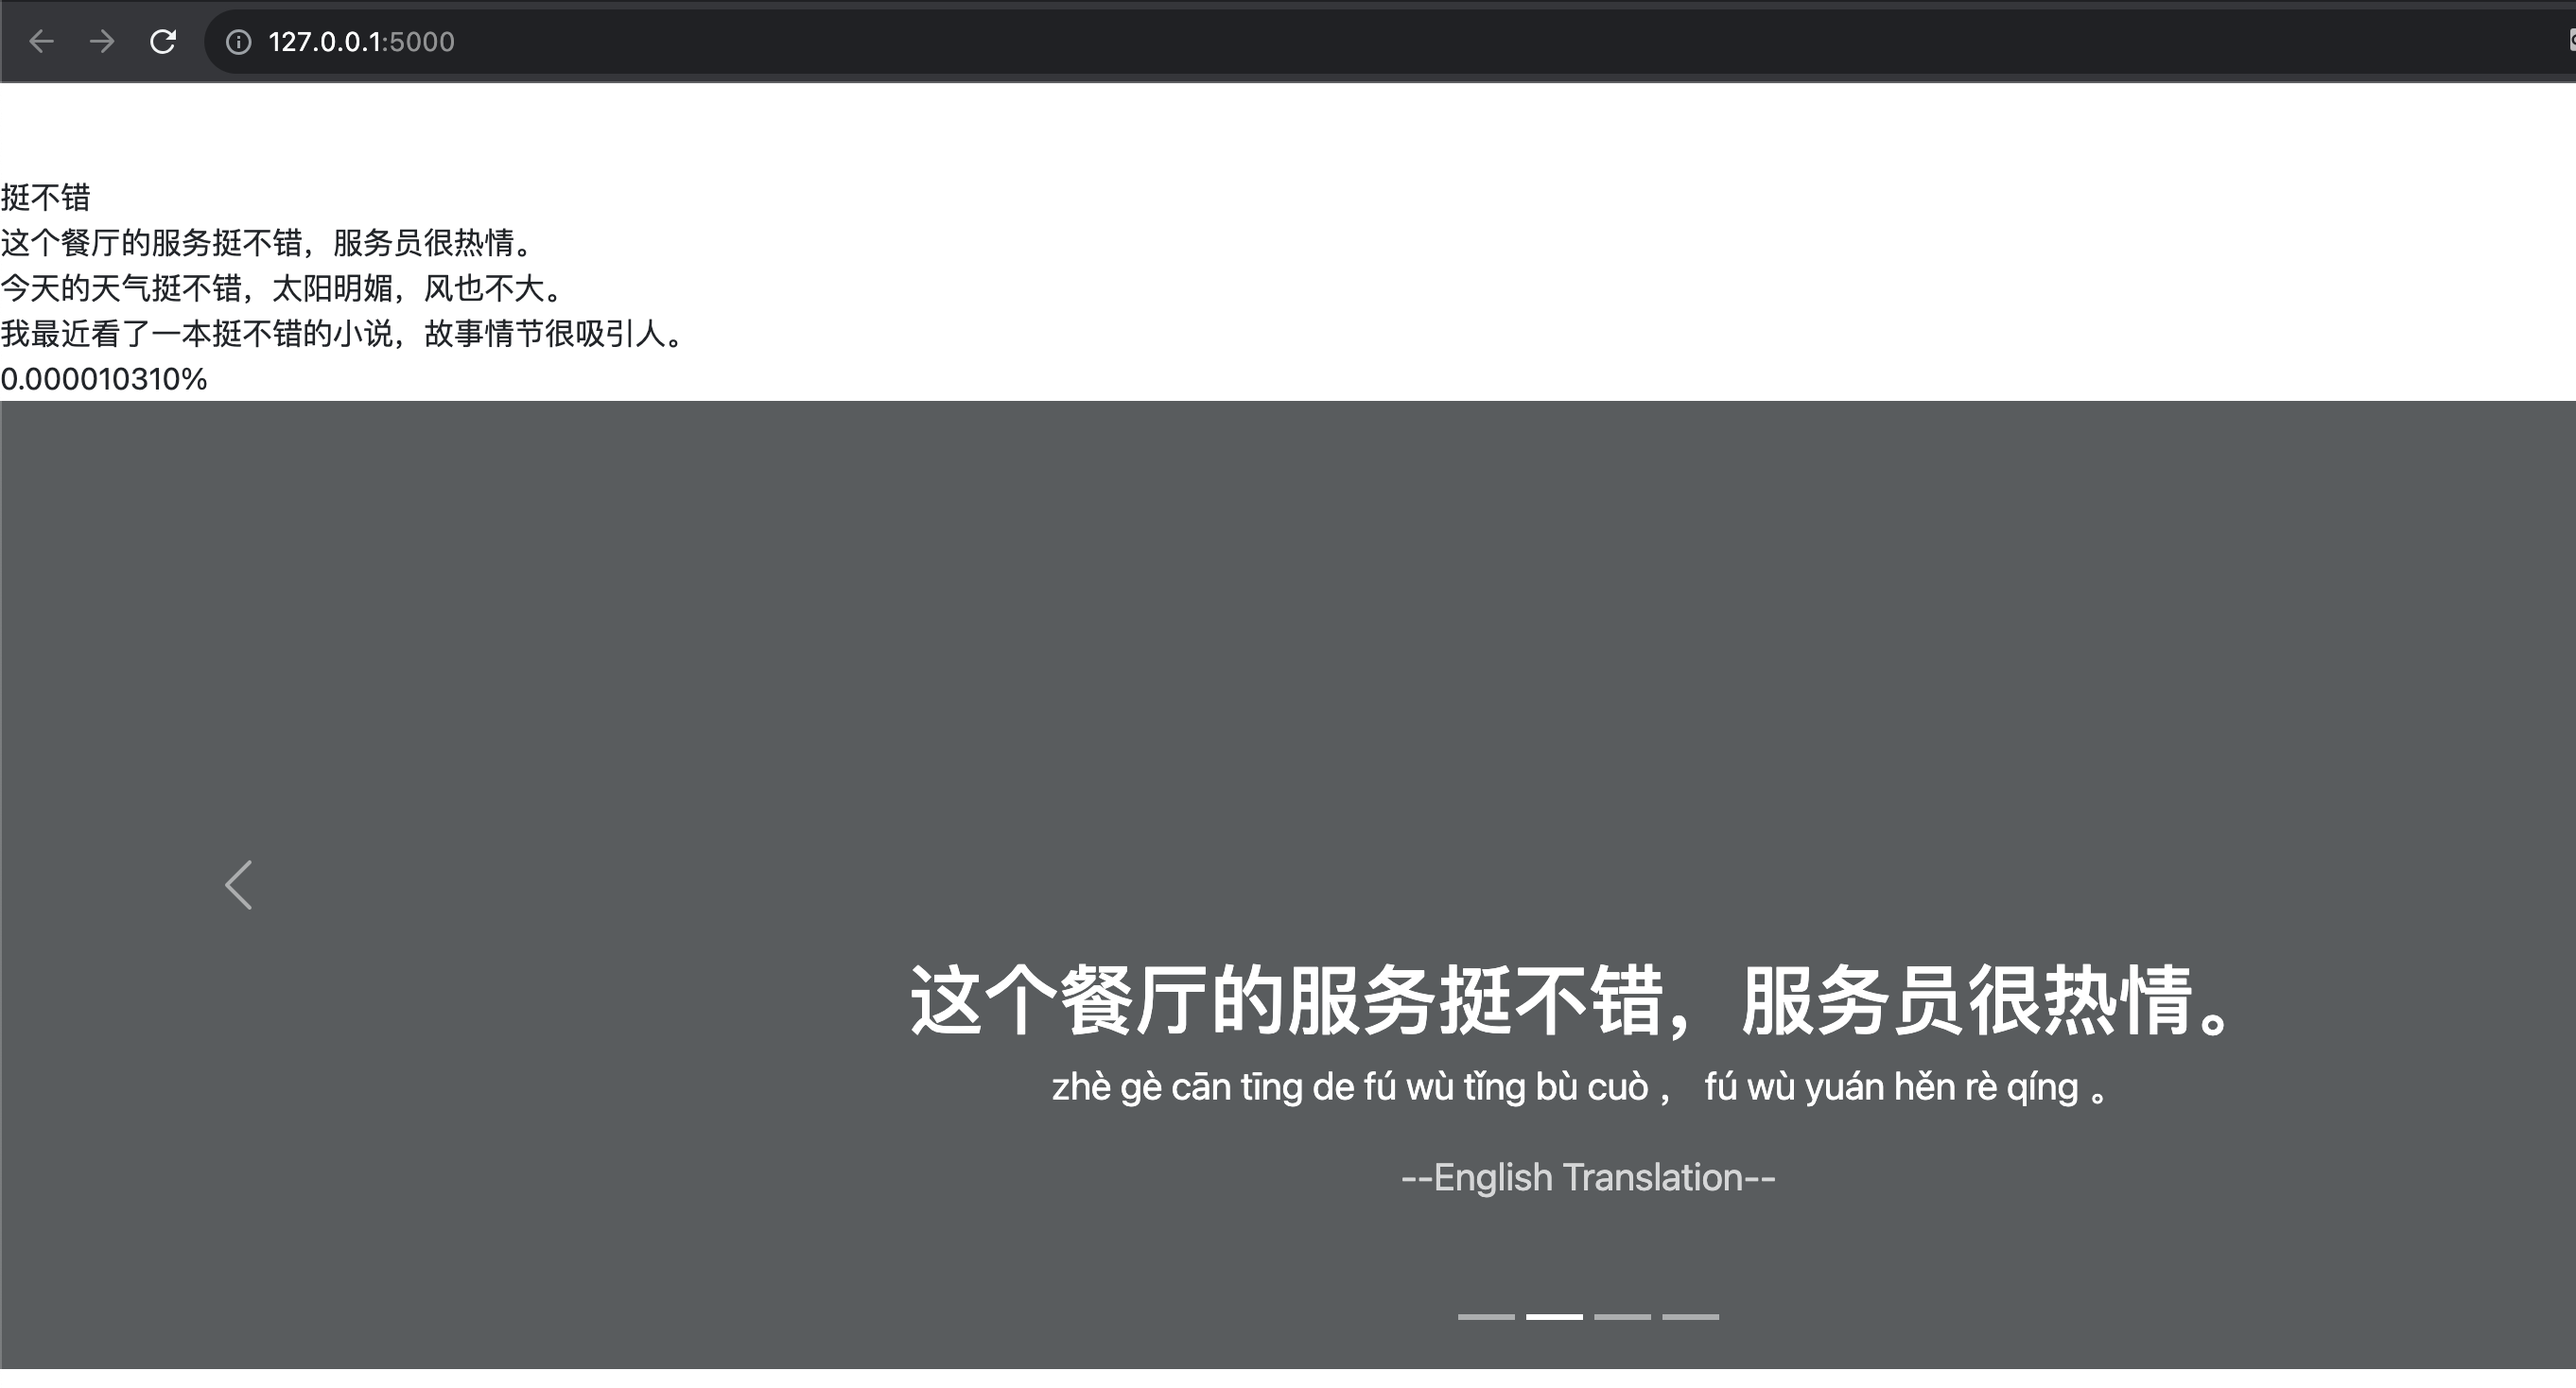
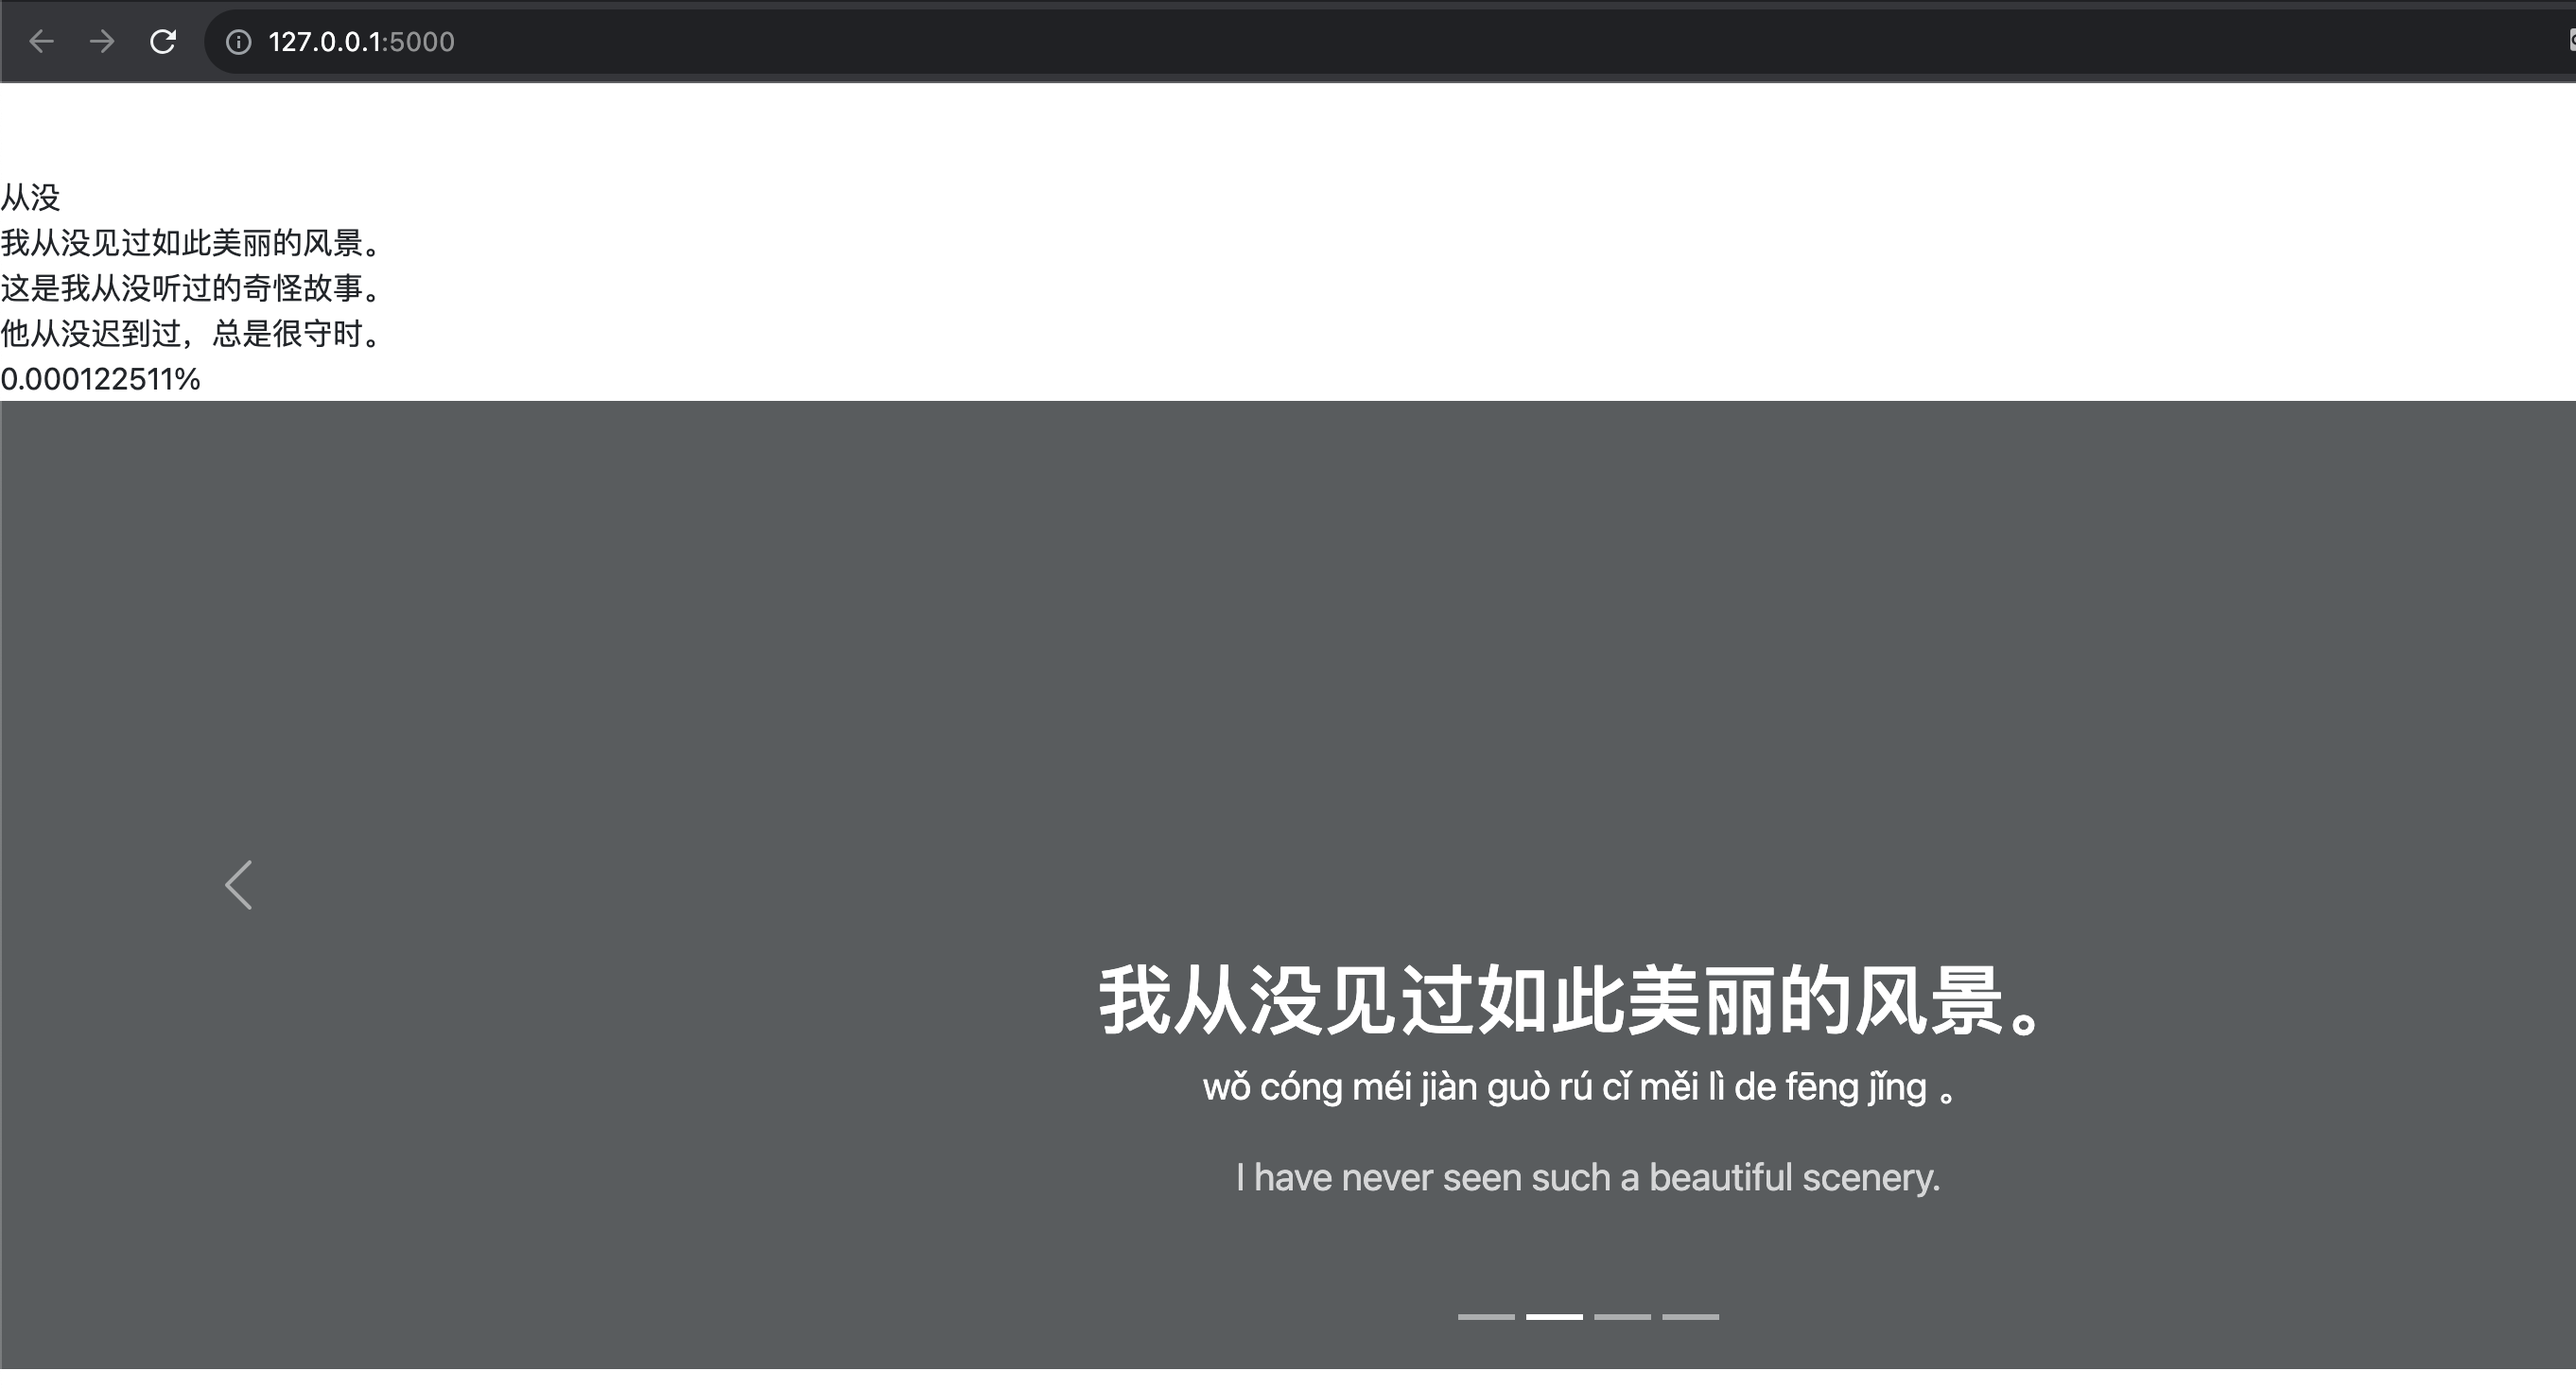
Adding english translation

Changed region(s): [[0.3432, 0.6744, 0.8737, 0.797], [0.0, 0.1226, 0.2496, 0.2759], [0.4681, 0.8277, 0.7489, 0.8583]]

diff --git a/templates/index.html b/templates/index.html
@@ -47,7 +47,7 @@
                 <h1>{{example}}</h1>
 <!--                <p><a class="btn btn-lg btn-info" href="#">Pinyin</a></p>-->
                   <p>{{examples_pinyin[loop.index-1]}}</p>
-                <p class="opacity-75">--English Translation--</p>
+                <p class="opacity-75">{{examples_english[loop.index-1]}}</p>
               </div>
             </div>
           </div>

diff --git a/main.py b/main.py
@@ -5,6 +5,7 @@ import pandas as pd
 from random import choice
 from flask import Flask, render_template, request
 import pinyin
+from googletrans import Translator
 
 
 # Start Setup
@@ -13,6 +14,7 @@ config = dotenv.dotenv_values(".env")
 openai.api_key = config['OPENAI_API_KEY']
 SAVED_OUTPUT = "data/saved_output.json"
 dictionary = []  # list of dictionaries
+translator = Translator()
 
 # Read csv and convert to dictionary
 try:
@@ -139,9 +141,15 @@ def main():
     # Ask ChatGPT to generate some examples
     examples = chatgpt_query(character)
     examples_pinyin = [pinyin.get(example, delimiter=" ") for example in examples]
+    examples_english = [translator.translate(example, src='zh-CN', dest='en').text for example in examples]
+
+    # Additional Debug
+    print(examples)
     print(examples_pinyin)
+    print(examples_english)
+
     # Present examples to user
-    return render_template('index.html', character=character, character_pinyin=character_pinyin, meaning=meaning, examples=examples, examples_pinyin=examples_pinyin, frequency=frequency)
+    return render_template('index.html', character=character, character_pinyin=character_pinyin, meaning=meaning, examples=examples, examples_pinyin=examples_pinyin, examples_english=examples_english, frequency=frequency)
     #return render_template('index.html')
 
 

diff --git a/README.md b/README.md
@@ -10,13 +10,14 @@ Built upon many aspects from my Chinese-Flash-Cards repository: https://github.c
 
 Todo:
 - Make pinyin toggleable
-- Add english translation using google
+- Make english toggleable
 - Add pronunciations using google speech
 - implement a refresh button to pick a new word
+- implement a highlight-translate for each character: https://stackoverflow.com/questions/4712310/javascript-how-to-detect-if-a-word-is-highlighted
 How to run:
 - Download repository
 - Open downloaded repository with a command line interface
-- run `pip install openai python-dotenv pandas flask pinyin`
+- run `pip install openai python-dotenv pandas flask pinyin googletrans==4.0.0-rc1`
 - Create an OpenAI account
 - Create a secret key and copy it from https://platform.openai.com/account/api-keys
 - Create a .env file in the root of this project folder
